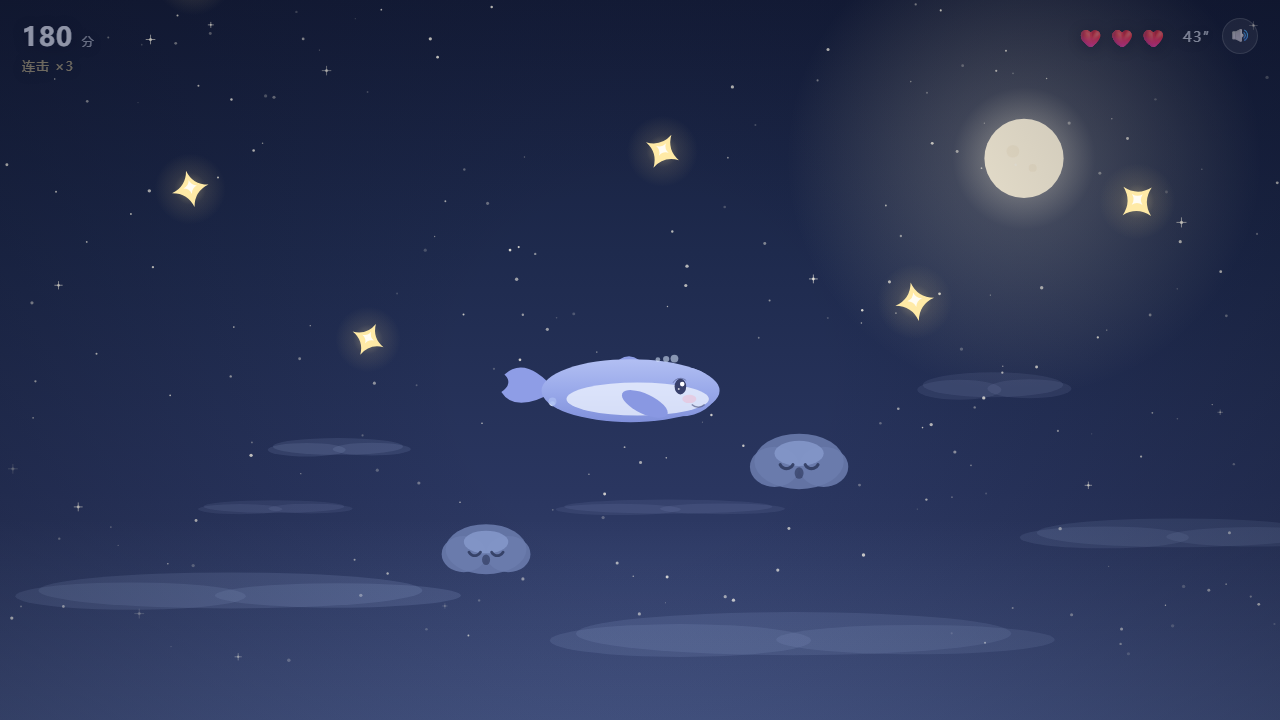
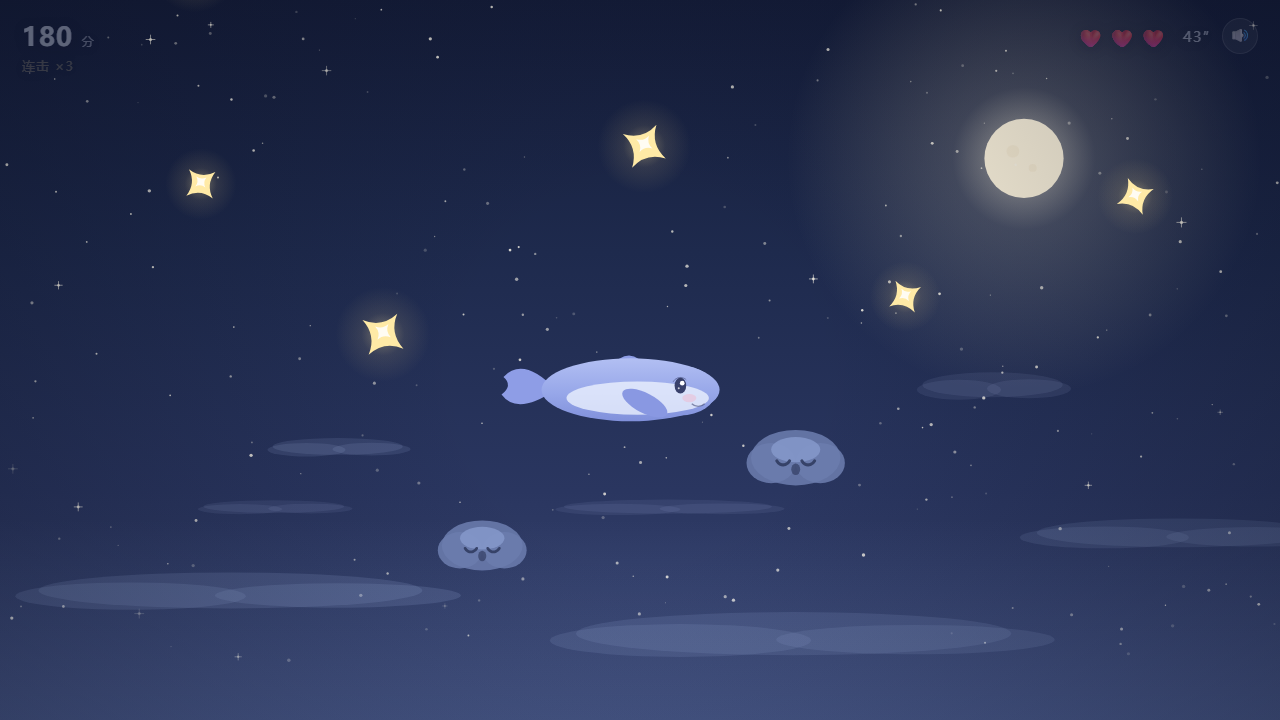
🐋 小鲸鱼捞星星：加目标小圈、修转身时的压扁（改成快速翻面）、手机 HUD 适配

diff --git a/游戏专区/whale-star-hunt.html b/游戏专区/whale-star-hunt.html
@@ -238,7 +238,7 @@ function rrect(c, x, y, w, h, r) {
 function whaleScale() { return Math.min(W, H) * .115; }
 
 /* ---------- 状态 ---------- */
-const whale = { x: 0, y: 0, vx: 0, vy: 0, tilt: 0, blink: 0, blinkT: 2, face: 1, pop: 0 };
+const whale = { x: 0, y: 0, vx: 0, vy: 0, tilt: 0, blink: 0, blinkT: 2, face: 1, pop: 0, turn: 0 };
 const target = { x: 0, y: 0 };
 const keys = {};
 let state = 'menu';       /* menu | play | over */
@@ -250,7 +250,17 @@ let mouseSeen = false;
 try { best = parseInt(localStorage.getItem('whale-star-best') || '0', 10) || 0; } catch (e) { best = 0; }
 try { muted = localStorage.getItem('whale-star-mute') === '1'; } catch (e) { }
 
-const stars = [];     /* 掉下来的星星 */
+const stars = [];     /* 鼠标在哪儿：一个很淡的小圈（小鲸鱼会朝它游过去） */
+  if (state === 'play' && mouseSeen) {
+    const s0 = whaleScale();
+    ctx.strokeStyle = 'rgba(230,238,255,.16)';
+    ctx.lineWidth = Math.max(1, s0 * .02);
+    ctx.beginPath(); ctx.arc(target.x, target.y, s0 * .26, 0, Math.PI * 2); ctx.stroke();
+    ctx.fillStyle = 'rgba(230,238,255,.35)';
+    ctx.beginPath(); ctx.arc(target.x, target.y, s0 * .035, 0, Math.PI * 2); ctx.fill();
+  }
+
+  /* 掉下来的星星 */
 const clouds = [];    /* 小乌云 */
 const bits = [];      /* 接住时的碎光 */
 const bubbles = [];   /* 鲸鱼尾巴后面冒的小泡泡 */
@@ -314,7 +324,7 @@ function drawWhale(t) {
   ctx.save();
   ctx.translate(whale.x, whale.y + bob);
   ctx.rotate(whale.tilt);
-  const fx = (whale.face >= 0 ? 1 : -1) * Math.max(.18, Math.abs(whale.face));
+  const fx = whale.face * (1 - whale.turn * .22);
   ctx.scale(fx * (1 + whale.pop * .05), 1 + whale.pop * .04);
 
   /* 尾巴后面的泡泡 */
@@ -576,7 +586,8 @@ function update(t, dt) {
     const wantTilt = Math.max(-.5, Math.min(.5, whale.vx / (Math.min(W, H) * 2.2)));
     whale.tilt += (wantTilt - whale.tilt) * Math.min(1, dt * 8);
     const faceTarget = whale.vx < -30 ? -1 : (whale.vx > 30 ? 1 : whale.face);
-    whale.face += (faceTarget - whale.face) * Math.min(1, dt * 7);
+    if (faceTarget !== whale.face) { whale.face = faceTarget; whale.turn = 1; }
+    if (whale.turn > 0) whale.turn = Math.max(0, whale.turn - dt * 5.5);
     if (whale.pop > 0) whale.pop = Math.max(0, whale.pop - dt * 4.5);
 
     /* 眨眼 */
@@ -680,6 +691,16 @@ function draw(t) {
     ctx.beginPath(); ctx.ellipse(d.x * W - d.w * .24, d.y + d.h * .2, d.w * .3, d.h * .4, 0, 0, Math.PI * 2); ctx.fill();
     ctx.beginPath(); ctx.ellipse(d.x * W + d.w * .26, d.y + d.h * .16, d.w * .3, d.h * .38, 0, 0, Math.PI * 2); ctx.fill();
     ctx.restore();
+  }
+
+  /* 鼠标在哪儿：一个很淡的小圈（小鲸鱼会朝它游过去） */
+  if (state === 'play' && mouseSeen) {
+    const s0 = whaleScale();
+    ctx.strokeStyle = 'rgba(230,238,255,.16)';
+    ctx.lineWidth = Math.max(1, s0 * .02);
+    ctx.beginPath(); ctx.arc(target.x, target.y, s0 * .26, 0, Math.PI * 2); ctx.stroke();
+    ctx.fillStyle = 'rgba(230,238,255,.35)';
+    ctx.beginPath(); ctx.arc(target.x, target.y, s0 * .035, 0, Math.PI * 2); ctx.fill();
   }
 
   /* 掉下来的星星 */
@@ -794,6 +815,8 @@ requestAnimationFrame(loop);
 </script>
 </body>
 </html>
+
+
 
 
 
